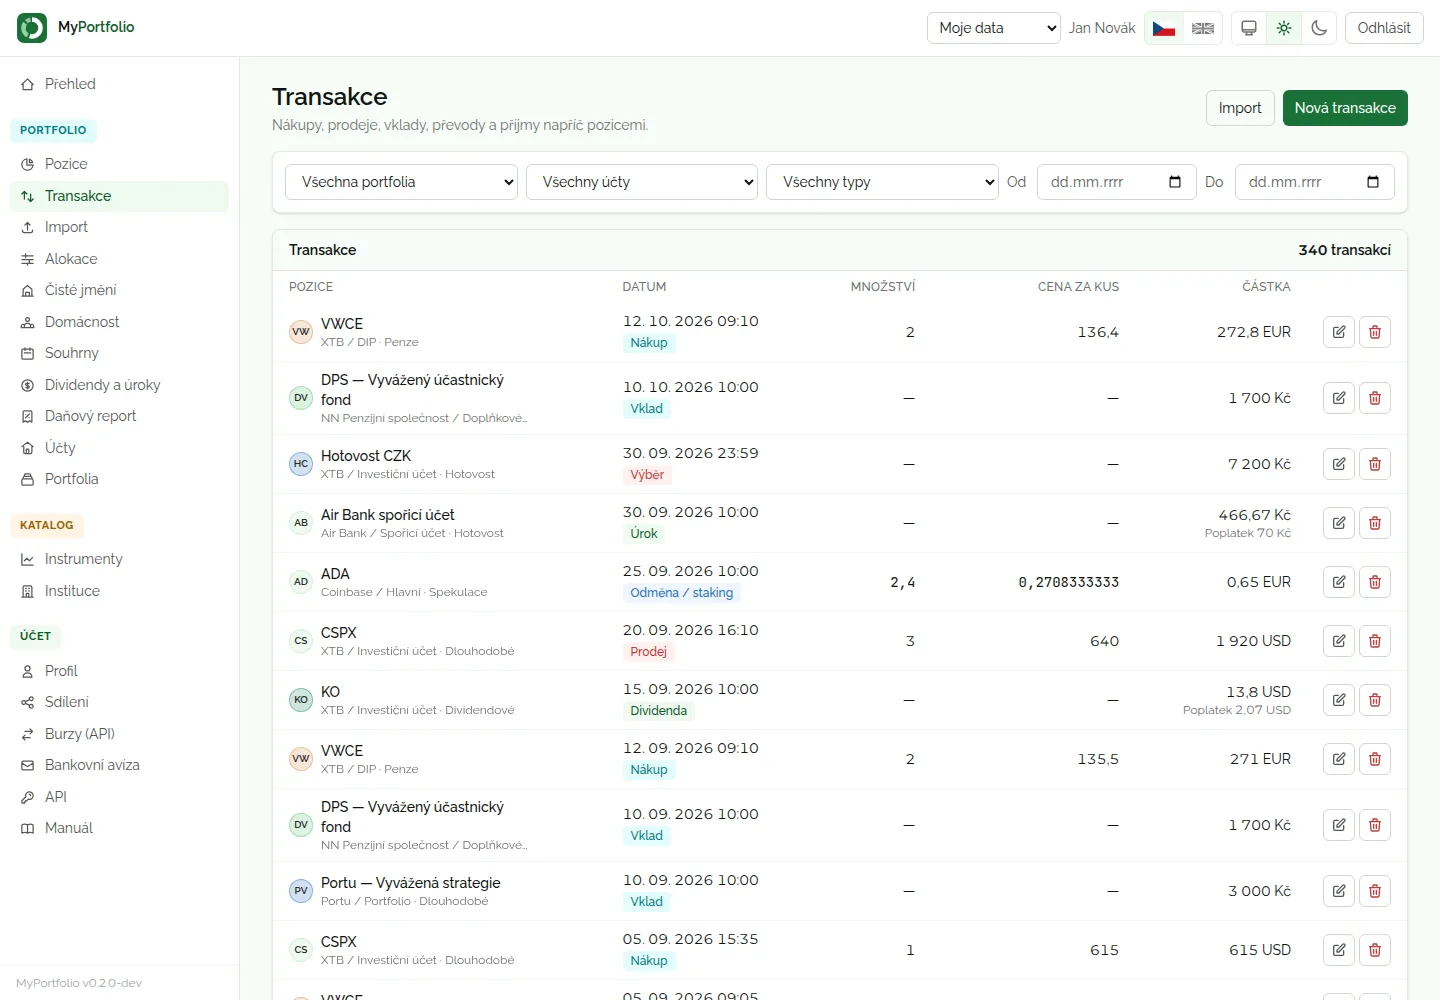
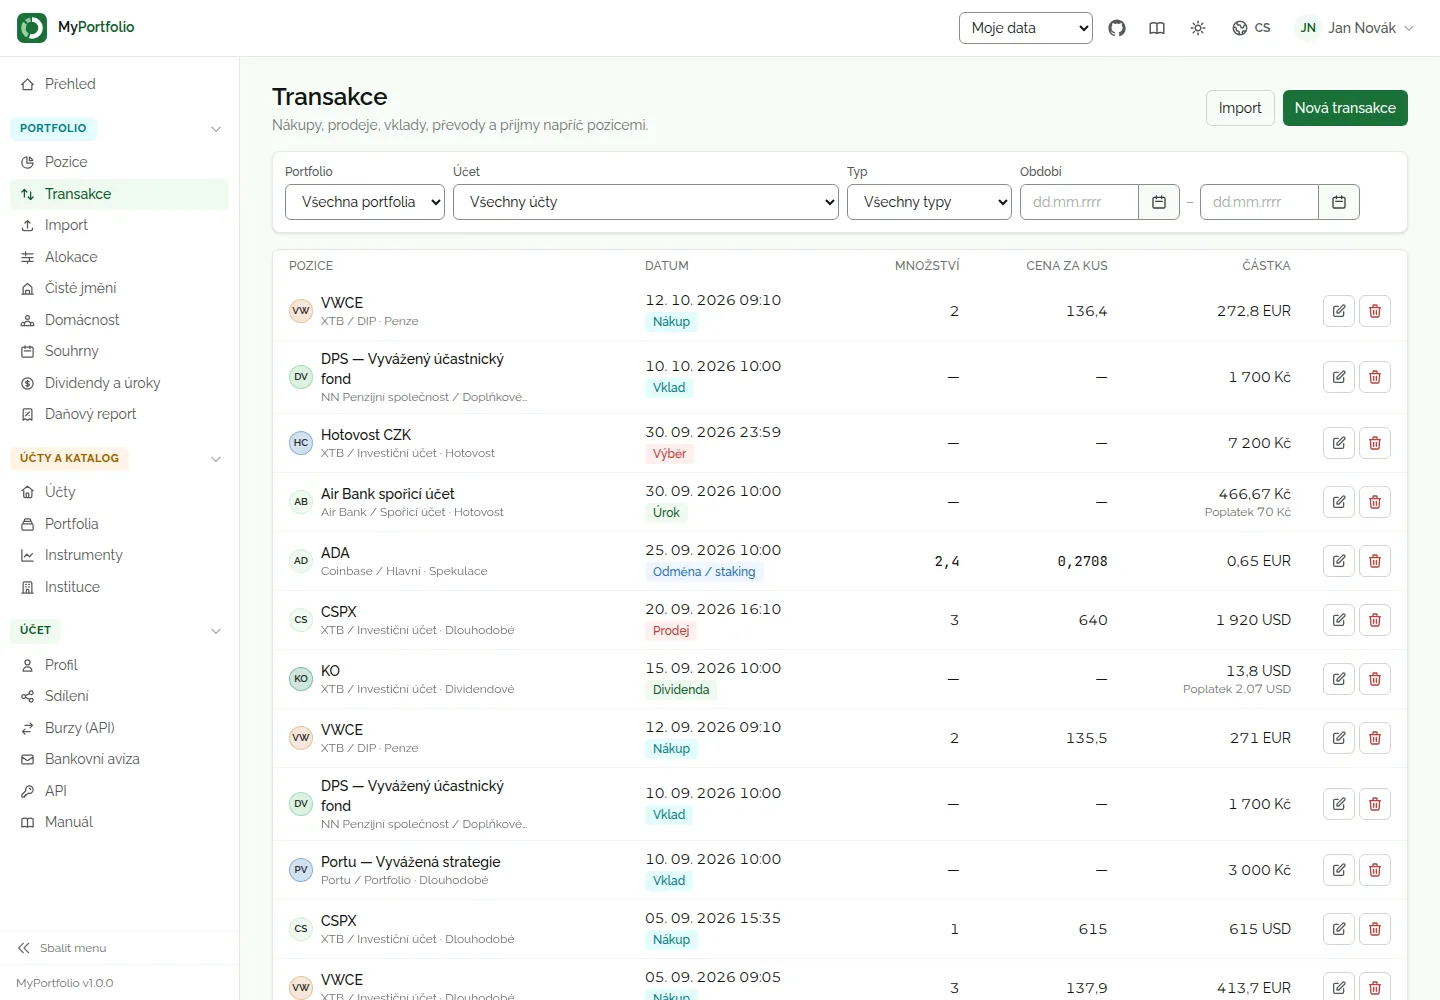
docs(readme): aktuální screenshoty, podpora autora a zřeknutí se odpovědnosti - screenshoty přefocené z ukázkových dat (nová horní lišta, data k 1. 11. 2026) - sekce Podpora autora (účet, IBAN, QR platba v docs/donate/) a Zřeknutí se odpovědnosti podle MyInvoice

diff --git a/README.md b/README.md
@@ -212,3 +212,41 @@ available in Czech and English, and so is the [user manual](manual/en/INDEX.md);
 
 MIT — viz [LICENSE](LICENSE). Aplikační skelet je převzatý z [MyInvoice](https://github.com/radekhulan/myinvoice)
 (© MyWebdesign.cz s.r.o., MIT).
+
+## Podpora autora
+
+Líbí se ti projekt? Autora můžeš podpořit darem:
+
+- **Účet:** `7560800307 / 6363` (Partners Banka)
+- **IBAN:** `CZ09 6363 0000 0075 6080 0307`
+- **BIC / SWIFT:** `PTBNCZPP`
+
+![QR kód pro dar](docs/donate/qrcode.jpg)
+
+Děkuji!
+
+## Zřeknutí se odpovědnosti
+
+> **Software je poskytován „TAK JAK JE", bez záruky jakéhokoli druhu**,
+> výslovné nebo předpokládané, včetně, ale nikoliv pouze, záruk
+> obchodovatelnosti, vhodnosti pro určitý účel a neporušení práv třetích osob.
+>
+> **Použití této aplikace je výhradně na vlastní riziko uživatele.**
+> Autoři ani přispěvatelé v žádném případě neodpovídají za jakékoli přímé,
+> nepřímé, náhodné, zvláštní, exemplární či následné škody (mimo jiné za
+> ztrátu dat, ušlý zisk, investiční ztráty nebo doměřenou daň) vzniklé
+> v souvislosti s používáním nebo nemožností použití tohoto softwaru,
+> a to ani v případě, že byli o možnosti takových škod informováni.
+>
+> Aplikace zpracovává **osobní finanční a investiční data** — uživatel je výhradně
+> odpovědný za:
+> - **správnost zadaných a importovaných transakcí** a z nich spočtených hodnot;
+> - **daňové přiznání** — daňový report je orientační podklad, ne daňové
+>   poradenství; před podáním ho ověř, případně s daňovým poradcem;
+> - **investiční rozhodnutí** — alokace, rebalancing ani výnosové metriky
+>   nejsou investičním doporučením;
+> - **zálohování databáze a souborů** v `storage/`;
+> - **zabezpečení produkčního nasazení** (HTTPS, IP allowlist, 2FA / passkeys,
+>   silná hesla, pravidelné aktualizace závislostí).
+>
+> Plné znění viz [LICENSE](LICENSE) (MIT — odstavec *„THE SOFTWARE IS PROVIDED "AS IS"…"*).
